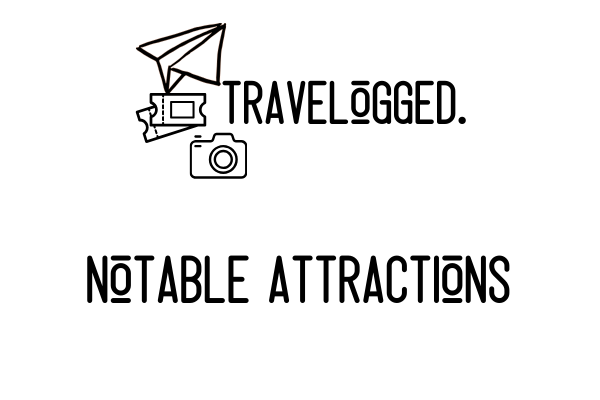
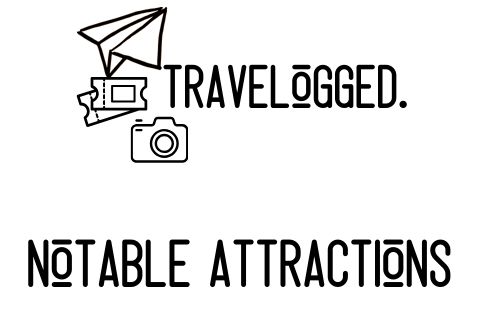
fixing images

Changed region(s): [[0.0307, 0.6306, 0.9221, 0.9172], [0.1537, 0.0, 0.8299, 0.5446]]

diff --git a/list.html b/list.html
@@ -6,29 +6,39 @@
     <title>Travelogged.</title>
     <script src="https://cdnjs.cloudflare.com/ajax/libs/jquery/3.2.1/jquery.min.js"></script>
     <link rel="stylesheet" href="https://stackpath.bootstrapcdn.com/bootstrap/4.4.1/css/bootstrap.min.css" integrity="sha384-Vkoo8x4CGsO3+Hhxv8T/Q5PaXtkKtu6ug5TOeNV6gBiFeWPGFN9MuhOf23Q9Ifjh" crossorigin="anonymous">
-    <link href="https://fonts.googleapis.com/css2?family=Oswald:wght@300&display=swap" rel="stylesheet">
+    <link href="https://fonts.googleapis.com/css2?family=Abel&family=Bebas+Neue&display=swap" rel="stylesheet">
+    <script src="https://unpkg.com/jarallax@1/dist/jarallax.min.js"></script>
+    <script src="https://unpkg.com/jarallax@1/dist/jarallax-video.min.js"></script>
     <link rel= "stylesheet" type = "text/css" href= "style.css">
-  </head>
-<body> 
-     <nav class="navbar navbar-light">
-    <a class="navbar-brand text-light" href="#"> <img src="images/logo.png" height= "75px" alt=""> </a>
-    <form class="form-inline my-2 my-lg-0">
-        <input class="form-control mr-sm-2" type="search" placeholder="E X P L O R E" aria-label="Search">
-        <button class="btn btn-outline-success my-2 my-sm-0" type="submit"><img src="https://img.icons8.com/ios-filled/64/000000/search.png"height = "25px"></button>
-  <button class="navbar-toggler" type="button" data-toggle="collapse" data-target="#navbarNavAltMarkup" aria-controls="navbarNavAltMarkup" aria-expanded="false" aria-label="Toggle navigation">
-  <span class="navbar-toggler-icon"></span>
-   </button>
-   
-<div class="collapse navbar-collapse" id="navbarNavAltMarkup">
-<div class="navbar-nav">
-    <a class="nav-item nav-link" href="https://github.com/YPangilinan" target = "_blank">Yssabel's Github</a>
-    <a class="nav-item nav-link" href="https://github.com/skang91" target = "_blank">Somin's Github</a>
-    <a class="nav-item nav-link" href="https://ypangilinan.github.io/portfolio.html" target = "_blank">Yssabel's Portfolio</a>
-    <a class="nav-item nav-link" href="https://skang91.github.io/Basic-Portfolio/" target = "_blank">Somin's Portfolio</a>
-    
-</div>
-</div> 
-</nav>
+</head>
+<body>
+    <div class = "bg-light mb-0">
+    <p><img src="https://img.icons8.com/ios-glyphs/64/000000/error.png" height = "45px">
+        <b>TRAVEL ADVISORY!</b> Due to the impact of COVID-19, destinations may have travel restrictions in place. Check any national, local, and health advisories before you book.</p> </div>
+  
+        <div class="jarallax" data-jarallax-video="https://youtu.be/U3_uxUSeZV4">
+            <nav class="navbar navbar-light mt-0">
+                <button class="navbar-toggler" type="button" data-toggle="collapse" data-target="#navbarNavAltMarkup" aria-controls="navbarNavAltMarkup" aria-expanded="false" aria-label="Toggle navigation">
+                    <span class="navbar-toggler-icon"></span>
+                     </button>
+                     
+                  <div class="collapse navbar-collapse" id="navbarNavAltMarkup">
+                  <div class="navbar-nav">
+                      <a class="nav-item nav-link" href="https://github.com/YPangilinan" target = "_blank">Yssabel's Github</a>
+                      <a class="nav-item nav-link" href="https://github.com/skang91" target = "_blank">Somin's Github</a>
+                      <a class="nav-item nav-link" href="https://ypangilinan.github.io/portfolio.html" target = "_blank">Yssabel's Portfolio</a>
+                      <a class="nav-item nav-link" href="https://skang91.github.io/Basic-Portfolio/" target = "_blank">Somin's Portfolio</a>   
+                  </div>
+                  </div> 
+                <form class="form-inline my-2 my-lg-0">
+                    <input class="form-control mr-sm-2" type="search" placeholder="E X P L O R E" aria-label="Search">
+                    <button class="btn btn-outline-success my-2 my-sm-0" type="submit"><img src="https://img.icons8.com/ios-filled/64/000000/search.png"height = "25px"></button>
+            </nav>
+            <div class="logo">
+                <img src = "images/travelogged6.png">
+                <br>
+            </div>
+        </div>
 <nav class="navbar navbar-expand-lg navbar-light bg-light">
     <a class="navbar-brand" href="index.html">MAIN MENU</a>
     <button class="navbar-toggler" type="button" data-toggle="collapse" data-target="#navbarSupportedContent" aria-controls="navbarSupportedContent" aria-expanded="false" aria-label="Toggle navigation">
@@ -55,20 +65,9 @@
   </nav>
 
 <div class="container">
-    <div class="row p-2" id = "advisoryRow">
-        <div class = "card">
-           <p><img src="https://img.icons8.com/ios-glyphs/64/000000/error.png" height = "55px">
-            <b>TRAVEL ADVISORY!</b><br> Due to the impact of COVID-19, some destinations may have travel restrictions in place. Check any national, local, and health advisories for this destination before you book. Please contact
-        your airline, hotel, and event booking comapnies for refund information.</p> 
-        </div>
+    <div class="row">
+        <h1>Find some sights to see.</h1>
     </div>
-     <!----Code for weather widget----->  
-     <a class="weatherwidget-io" href="https://forecast7.com/en/37d34n121d89/san-jose/?unit=us" data-label_1="SAN JOSE" data-label_2="WEATHER" data-font="Open Sans Condensed" >SAN JOSE WEATHER</a>
-     <script>
-     !function(d,s,id){var js,fjs=d.getElementsByTagName(s)[0];if(!d.getElementById(id)){js=d.createElement(s);js.id=id;js.src='https://weatherwidget.io/js/widget.min.js';fjs.parentNode.insertBefore(js,fjs);}}(document,'script','weatherwidget-io-js');
-     </script>
-    <!--------end weather widget code----->
-  
         <div class="row">
           <div class="col-lg-4">
             <div class="card d-flex align-items-center p-2 mb-3">
@@ -79,7 +78,13 @@
                 <button type="submit" class="btn btn-primary" id = "submit">Submit</button>
             </form>
       </div>
-            
+                 <!----Code for weather widget----->  
+     <a class="weatherwidget-io" href="https://forecast7.com/en/37d34n121d89/san-jose/?unit=us" data-label_1="SAN JOSE" data-label_2="WEATHER" data-font="Open Sans Condensed" >SAN JOSE WEATHER</a>
+     <script>
+     !function(d,s,id){var js,fjs=d.getElementsByTagName(s)[0];if(!d.getElementById(id)){js=d.createElement(s);js.id=id;js.src='https://weatherwidget.io/js/widget.min.js';fjs.parentNode.insertBefore(js,fjs);}}(document,'script','weatherwidget-io-js');
+     </script>
+    <!--------end weather widget code----->
+  
           </div>
         <div class="col-lg-8">
   <div class="card d-flex align-items-center p-2 mb-3" id = "attractionCard">
@@ -99,30 +104,7 @@
     </div>
     </div>
 </div>
-<div class="row mt-3 mb-3">
-    <div class="col-md-1">
-       <img src = "https://a.travel-assets.com/flex/flexmanager/images/2019/06/27/TVLY_RTB_Homepage_NeverRoamAlone_img_40x40_20190626.png">
-    </div>
-      <div class="col-md-3">
-        <b>You'll never have roam the world alone.</b>
-        <br> Travelogged will provide you dependable service 24/7.
-      </div>
-      <div class="col-md-1">
-        <img src = "https://a.travel-assets.com/flex/flexmanager/images/2019/06/27/TVLY_RTB_Homepage_WorldOfChoice_img_40x40_20190626.png">
-      </div>
-      <div class="col-md-3">
-          <b>A world of options all in one place.</b>
-        <br> <p>Travelogged provides over 2 API's for information about your next destination.</p>
-        </div>
-        <div class="col-md-1">
-            <img src = "https://a.travel-assets.com/flex/flexmanager/images/2019/06/27/TVLY_RTB_Homepage_PriceMatchGuarantee_App_img_40x40_20190626.png">
-        </div>
-    <div class="col-md-3">
-         <b> Peace of mind, wherever you may roam.</b>
-         <br> Backed by Skyscanner, Ticketmaster & Google Maps (APIs). We guarantee to provide you the most up to date information the API can provide.</p>
 
-    </div>
-  </div>
 <footer>
     <div class="row">
         <div class="col-md-4">
